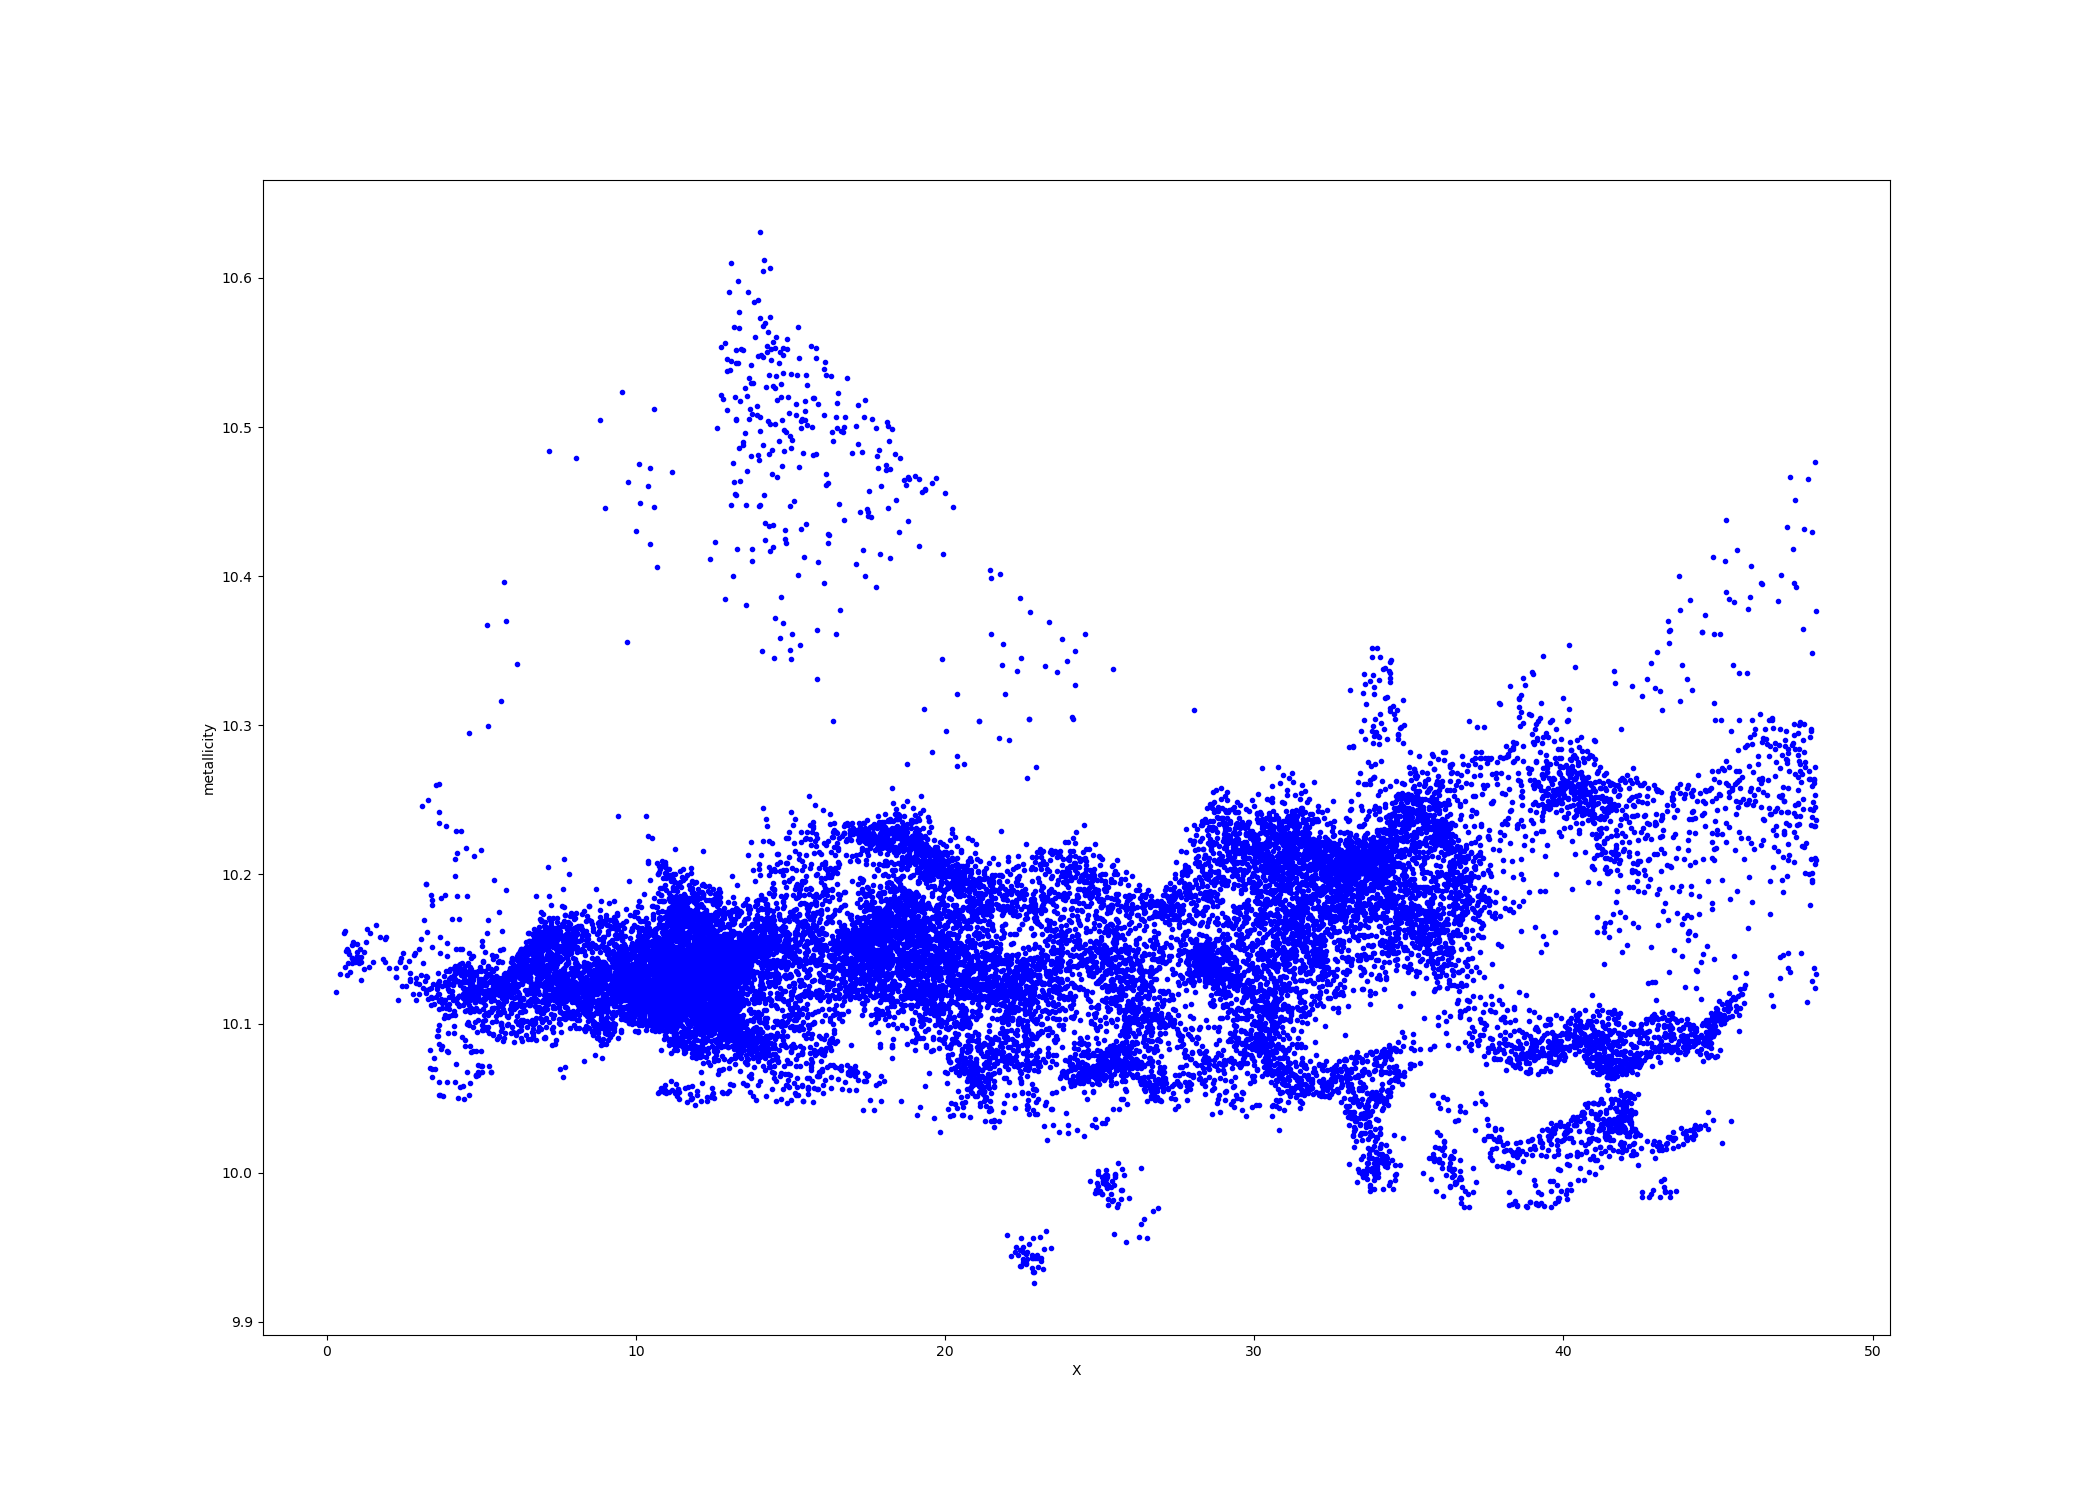
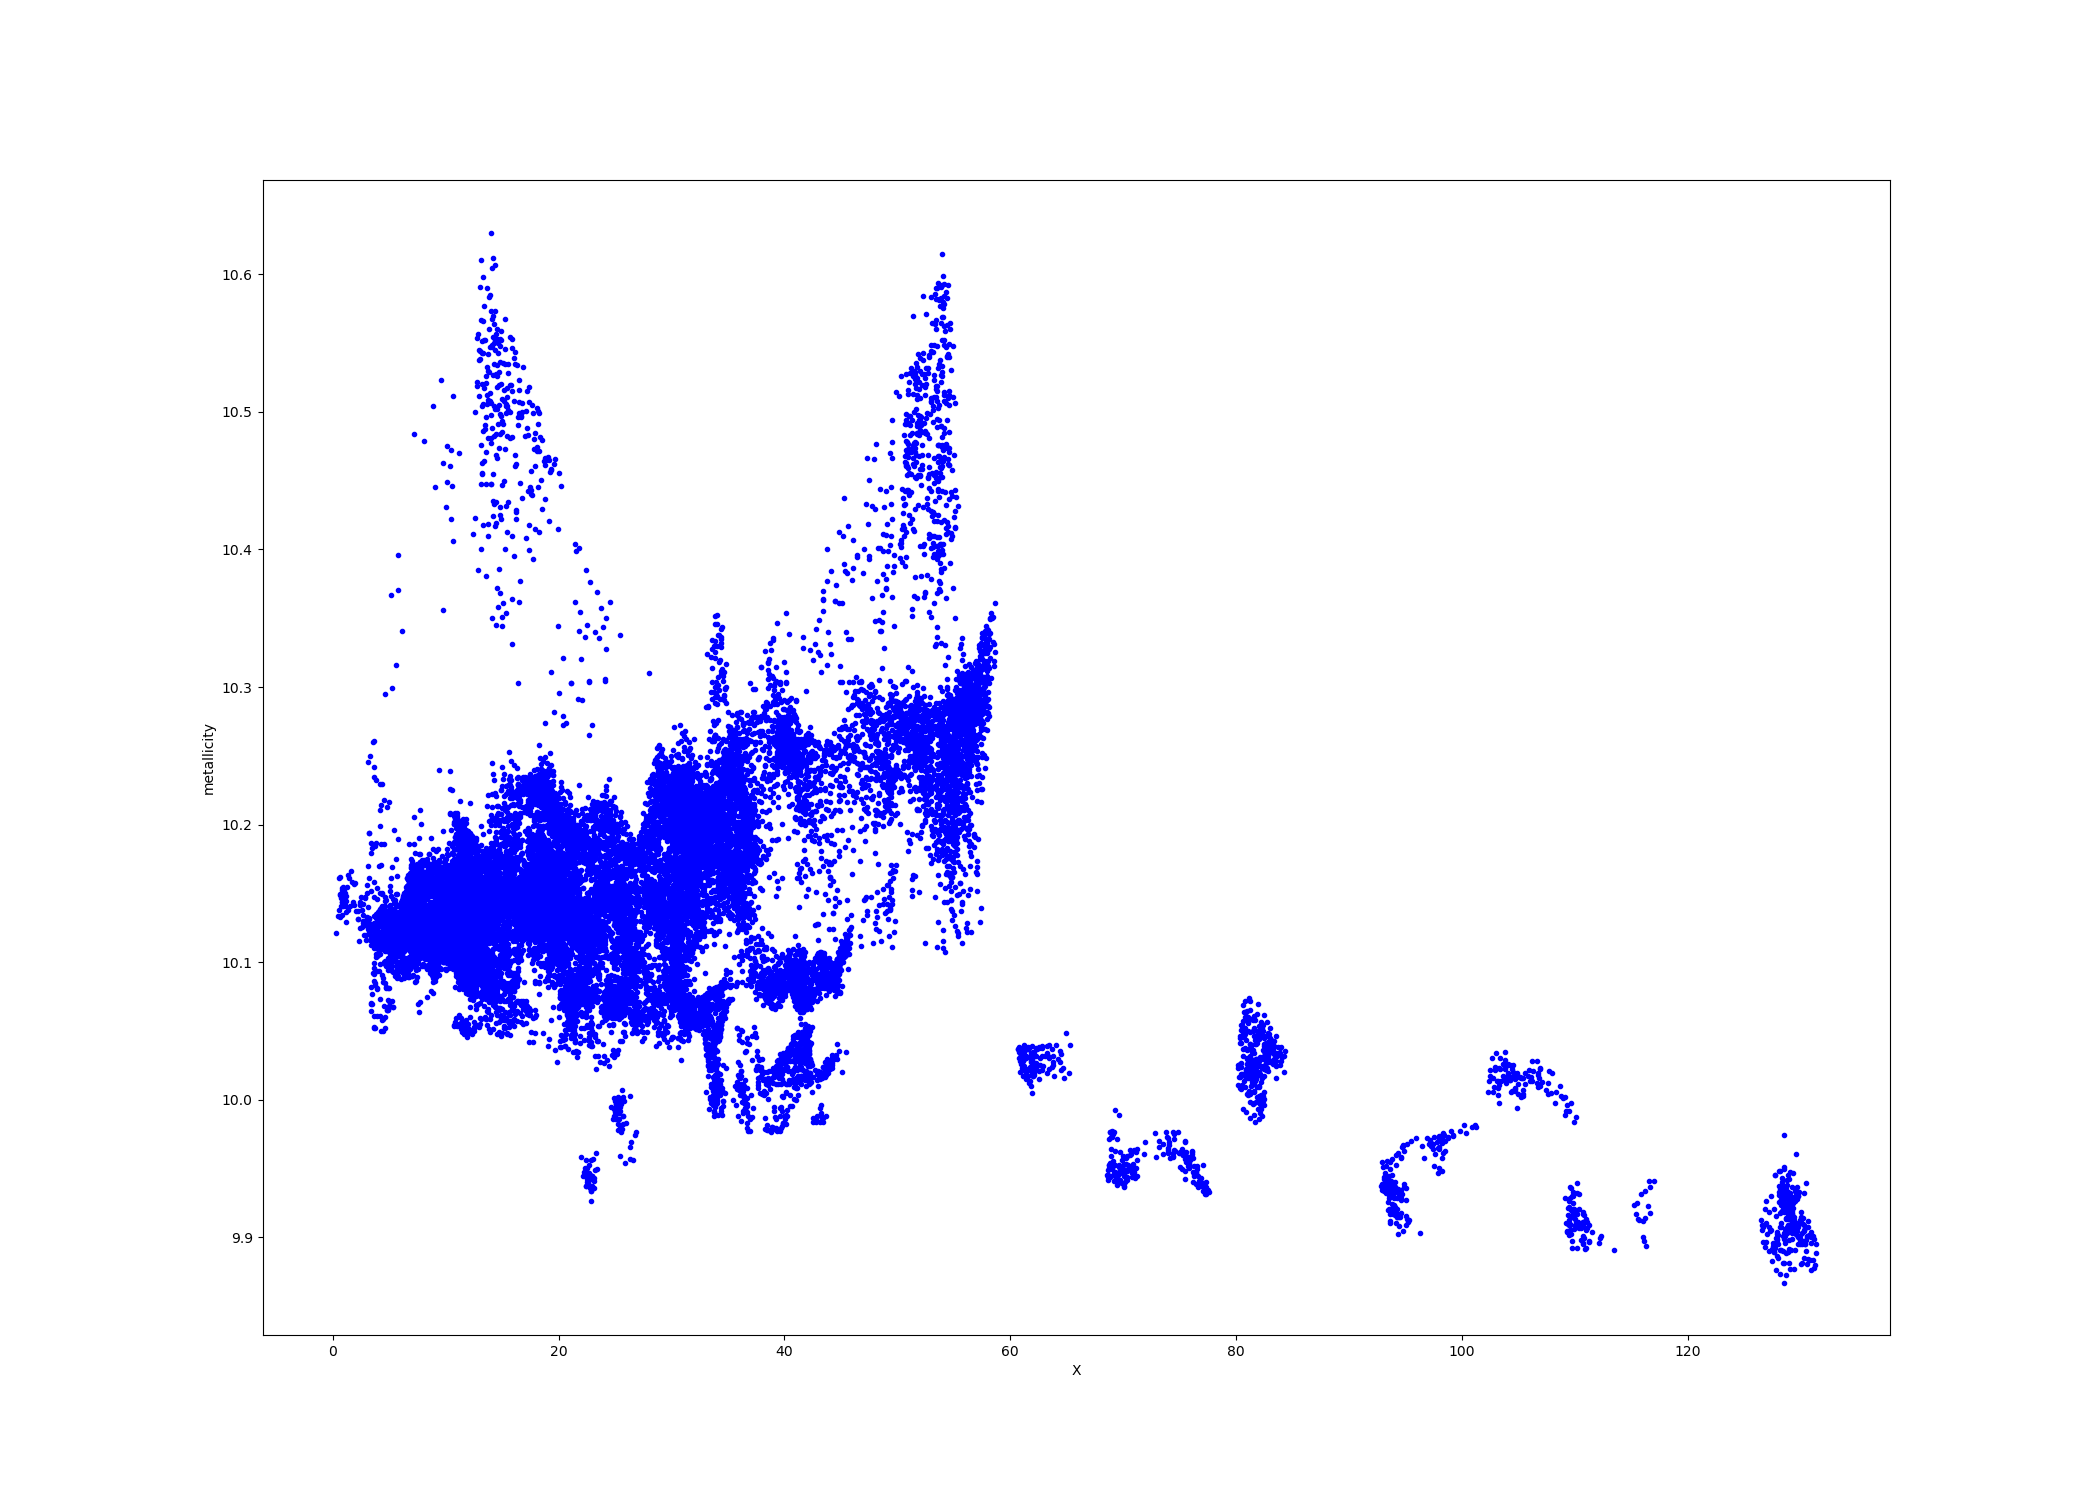
met-gradients plotted for highest mass TNG100

diff --git a/class_il/classrad.py b/class_il/classrad.py
@@ -77,8 +77,8 @@ class galaxy:
         # Velocities  (N,3) km sqrt(scalefac)        # We convert these to pkpc (proper kpc), Msun and km/s, respectively
         crit_dist = 5 * self.Rhalf #30. # proper kpc
         self.crit_dist = crit_dist
-        #hcoldgas  = np.where( (gas['StarFormationRate'] > 0.) & (np.sum((gas['Coordinates']/hubble / (1. + redshift) - self.centre[None,:])**2, axis=1) < crit_dist**2) )[0]
-        hcoldgas  = (np.sum((gas['Coordinates']/hubble / (1. + redshift) - self.centre[None,:])**2, axis=1) < crit_dist**2)
+        hcoldgas  = np.where( (gas['StarFormationRate'] > 0.) & (np.sum((gas['Coordinates']/hubble / (1. + redshift) - self.centre[None,:])**2, axis=1) < crit_dist**2) )[0]
+        #hcoldgas  = (np.sum((gas['Coordinates']/hubble / (1. + redshift) - self.centre[None,:])**2, axis=1) < crit_dist**2)
         self.pgas_coo   = gas['Coordinates'][hcoldgas]/hubble / (1. + redshift)
         self.pgas_m     = gas['Masses'][hcoldgas] * 10**10 / hubble
         self.pgas_vel   = (gas['Velocities'][hcoldgas] * np.sqrt(scalefac)) - all_fields['SubhaloVel'][None,:]
@@ -194,11 +194,11 @@ class galaxy:
         return print('.')
     def met_grad_star(self,annuli_pc):
         df =pd.DataFrame({"rad": self.pstar_rad_len,"met": self.pstar_met })
-        df= df.sample(frac=0.01,random_state=1)
+        #df= df.sample(frac=0.01,random_state=1)
         annul1= annuli_pc*self.crit_dist
         met_df = df[df['rad']<annul1]
         plt.figure(figsize=(21,15))
-        plt.scatter(met_df['rad'], (met_df['met']), 'b.')
+        plt.scatter(met_df['rad'], 12+np.log10(met_df['met']), 'b.')
         plt.xlabel('Radial Position')
         plt.ylabel('metallicity')
         filename = 'temppng/TNG100_metgrad__stellar_forsub_{}.png'.format(sub1.subID)
@@ -216,22 +216,20 @@ print(massive_ids)
 '''
 massive_ids = [0, 7516, 21013, 15129, 31129, 39628, 47416, 26558, 44002, 34668, 57620, 51083, 54570, 63544, 69982, 60421, 85032, 87479, 88730, 80680]
 
-
 #print(len(sub1.pgas_coo))
 #print(len(sub1.pgas_met))
 
-#for i in massive_ids:
-sub1= galaxy('TNG100-1',70,0)
-sub1.galcen()
-sub1.ang_mom_align('stars')
-sub1.radial_coo()
-sub1.xyzprop_df('met')
-sub1.gas_plot(0.75)
-print(sub1.pgas_met)
+for i in massive_ids:
+    sub1= galaxy('TNG100-1',70,i)
+    sub1.galcen()
+    sub1.ang_mom_align('gas')
+    sub1.radial_coo()
+    sub1.xyzprop_df('met')
+    sub1.met_grad_gas(0.75)
 
-print(min(sub1.pstar_coo[:,0]))
-print(max(sub1.pstar_coo[:,0]))
-print(len(sub1.pstar_rad_len))
+#print(min(sub1.pstar_coo[:,0]))
+#print(max(sub1.pstar_coo[:,0]))
+#print(len(sub1.pstar_rad_len))
 end = time.time()
 print('runtime = {} seconds'.format(end-start))
 
